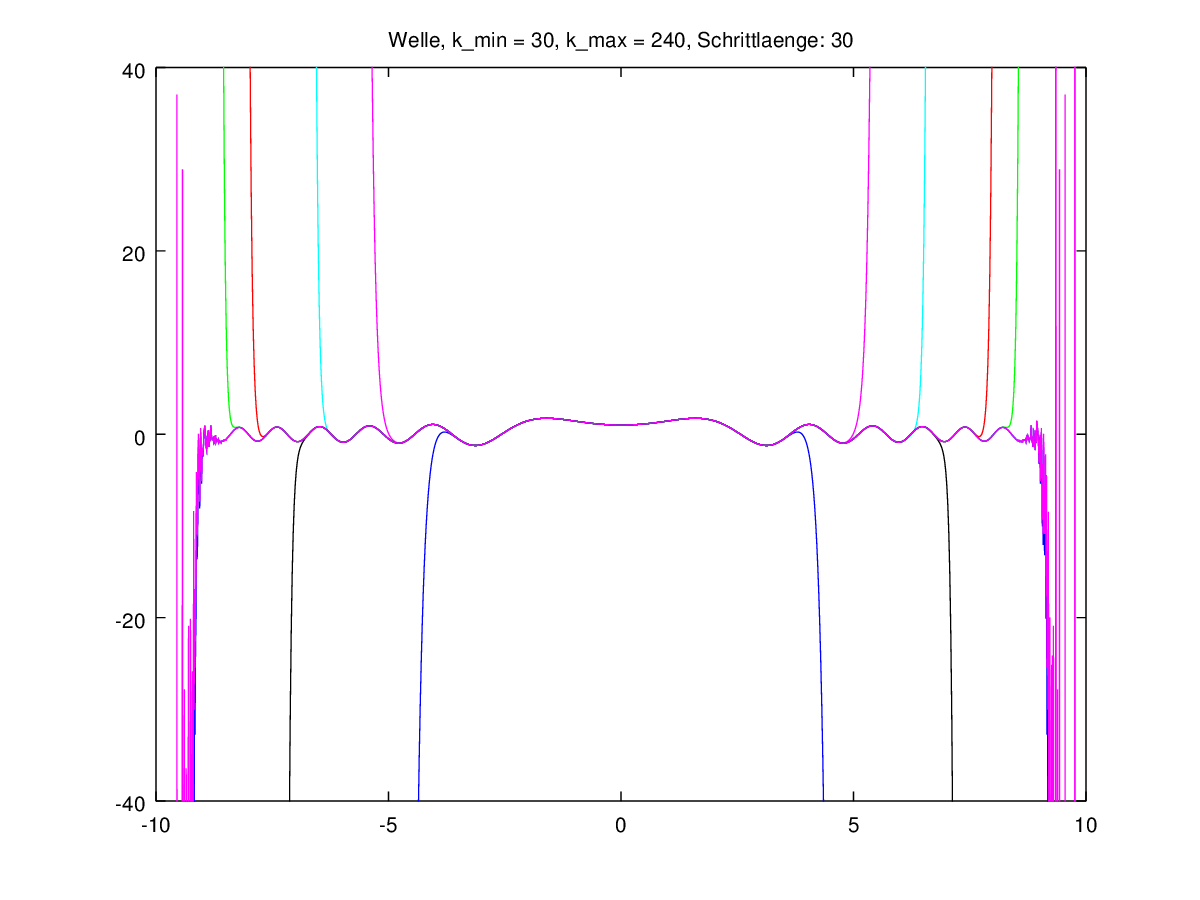
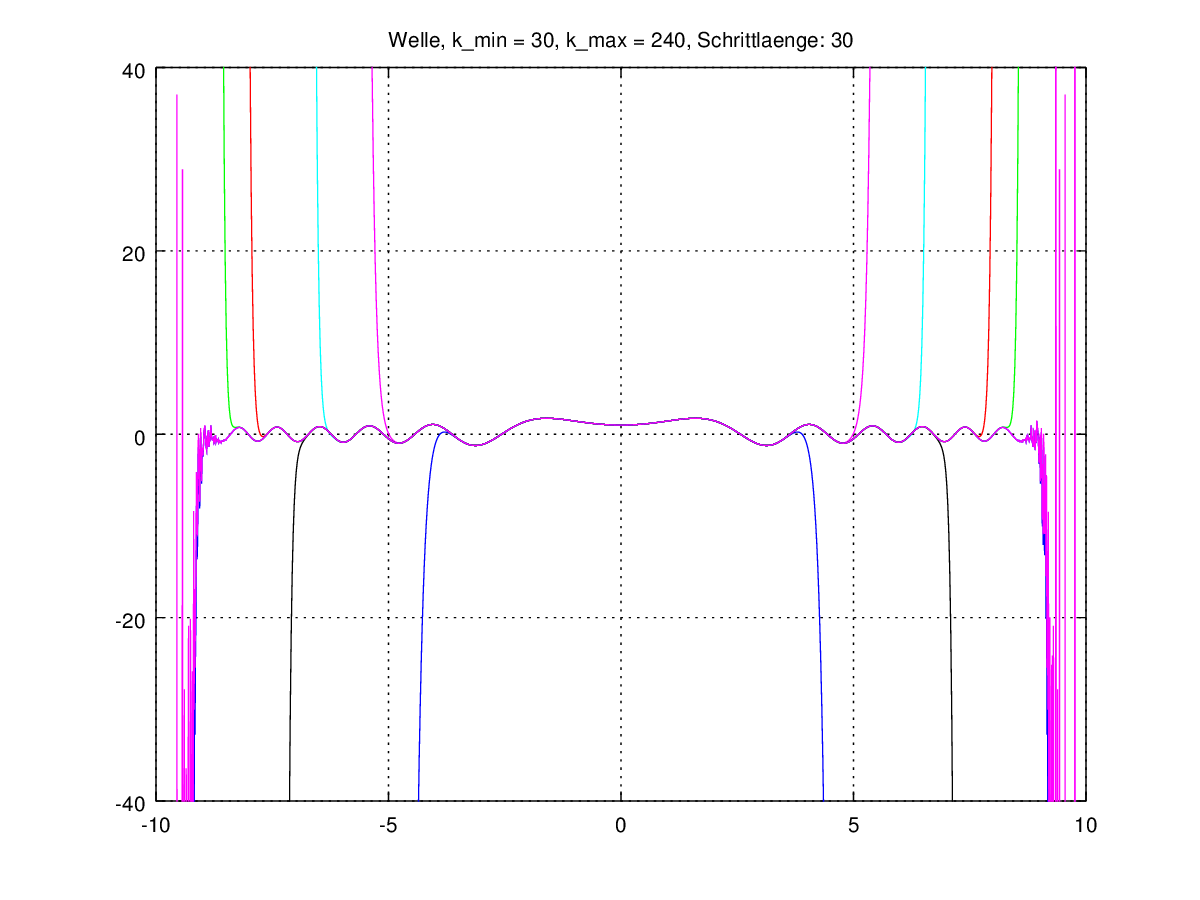
more plotting

diff --git a/skript/wellen/octave/krangeplot.m b/skript/wellen/octave/krangeplot.m
@@ -4,25 +4,53 @@ load("./a0a1.dat");
 set (0, "defaultaxesfontname", "Helvetica")
 figure("visible","off");
 
-hold("on");
-klinecolor = linecolor;
-for k = (krange(1):kstep:krange(2))
-    cfg = sprintf('%d;;', mod(klinecolor++, 6));
-    runcfg = sprintf('%s -kmax %d -xrange "[%d, %d]" -a0 %d -a1 %d -A %d -B %d -C %d', runcfg, k, xrange(1), xrange(2), a0, a1, A, B, C);
-    system(runcfg);
-    system(runak);
-    system(runa0a1);
-    system(runyx);
-    load("./yx.dat");
-    plot(xaxis, y, cfg);
-endfor
-axis(plotrange);
-if (autox)
-    axis("auto x");
+if (!krangeframes)
+    hold("on");
+    klinecolor = linecolor;
+    for k = (krange(1):kstep:krange(2))
+        cfg = sprintf('%d;;', mod(klinecolor++, 6));
+        runcfg = sprintf('%s -kmax %d -xrange "[%d, %d]" -a0 %d -a1 %d -A %d -B %d -C %d', runcfg, k, xrange(1), xrange(2), a0, a1, A, B, C);
+        system(runcfg);
+        system(runak);
+        system(runa0a1);
+        system(runyx);
+        load("./yx.dat");
+        plot(xaxis, y, cfg);
+    endfor
+    axis(plotrange);
+    if (autox)
+        axis("auto x");
+    endif
+    if (autoy)
+        axis("auto y");
+    endif
+    krangetitle = sprintf('Welle, k_max = [%d, %d], Schrittlaenge: %d', krange(1), krange(2), kstep);
+    title(krangetitle);
+    grid("on");
+    print("-dpng", "krangewave.png");
+else
+    hold("off");
+    i = 1;
+
+    for k = (krange(1):kstep:krange(2))
+        cfg = '3;;';
+        runcfg = sprintf('%s -kmax %d -xrange "[%d, %d]" -a0 %d -a1 %d -A %d -B %d -C %d', runcfg, k, xrange(1), xrange(2), a0, a1, A, B, C);
+        system(runcfg);
+        system(runak);
+        system(runa0a1);
+        system(runyx);
+        load("./yx.dat");
+        plot(xaxis, y, cfg);
+        axis(plotrange);
+        if (autox)
+            axis("auto x");
+        endif
+        if (autoy)
+            axis("auto y");
+        endif
+        krangetitle = sprintf('Welle, k_max = [%d, %d], k = %d', krange(1), krange(2), k);
+        title(krangetitle);
+        grid("on");
+        print("-dpng", sprintf('krangewave%d.png', i++));
+    endfor
 endif
-if (autoy)
-    axis("auto y");
-endif
-krangetitle = sprintf('Welle, k_min = %d, k_max = %d, Schrittlaenge: %d', krange(1), krange(2), kstep);
-title(krangetitle);
-print("-dpng", "krangewave.png");

diff --git a/skript/wellen/octave/config.m b/skript/wellen/octave/config.m
@@ -9,6 +9,7 @@ runyx = 'octave yx.m';
 runkrangeplot = 'octave krangeplot.m';
 runwaveplot = 'octave waveplot.m';
 runparabolaplot = 'octave parabolaplot.m';
+runbparabolaplot = 'octave bparabolaplot.m';
 
 ##
 # Plot settings
@@ -17,11 +18,14 @@ runparabolaplot = 'octave parabolaplot.m';
 plotwave = true;
 plotkrange = false;
 plotparabola = false;
+plotbparabola = false;
 
 waveplot = true;
 parabolazerosplot = true;
 parabolaplot = true;
 a0heightplot = false;
+
+krangeframes = false;
 
 filename = "wave";
 
@@ -124,6 +128,8 @@ for i = (1:nargin)
             plotwave = str2num(arglist(++i){1});
         case "-plotparabola"
             plotparabola = str2num(arglist(++i){1});
+        case "-plotbparabola"
+            plotbparabola = str2num(arglist(++i){1});
         case "-waveplot"
             waveplot = str2num(arglist(++i){1});
         case "-parabolazerosplot"
@@ -132,6 +138,8 @@ for i = (1:nargin)
             parabolaplot = str2num(arglist(++i){1});
         case "-filename"
            filename = arglist(++i){1};
+        case "-krangeframes"
+           krangeframes = str2num(arglist(++i){1});
     endswitch
 endfor
 
@@ -198,4 +206,5 @@ save("./config.dat", "kmax", "x0", "x1", "x2", "xrange", "datasize", "plotrange"
 "krange", "kstep", "plotkrange", "linecolor", "filename", "plotparabola",
 "plotwave", "parabolaplot", "waveplot", "parabolazerosplot", "a0heightplot", 
 "runcfg", "runak", "runa0a1", "runyx", "runkrangeplot", "runwaveplot", "runparabolaplot",
+"runbparabolaplot", "plotbparabola", "krangeframes",
 "parabolaformula", "yformula", "wavetitle", "parabolatitle", "wavewithparabolatitle");

diff --git a/skript/wellen/octave/parabolaplot.m b/skript/wellen/octave/parabolaplot.m
@@ -1,27 +1,18 @@
 load("./config.dat");
 load("./a0a1.dat");
 
-set (0, "defaultaxesfontname", "Helvetica")
-figure("visible","off");
-
 i = 1;
 
 for a = (arange(1):astep:arange(2))
-    cfg = '2;;';
-    runcfg = sprintf('%s -A %d -B %d -C %d -yautoplot false -yplot "[%d, %d]"', runcfg, a, B, C, plotrange(3), plotrange(4));
+    runcfg = sprintf('%s -A %d -B %d -C %d -xrange "[%d, %d]" -xplot "[%d, %d]" -xautoplot %d -yautoplot %d -yplot "[%d, %d]"', runcfg, a, B, C, xrange(1), xrange(2), plotrange(1), plotrange(2), autox, autoy, plotrange(3), plotrange(4));
     system(runcfg);
+    load("./config.dat");
     system(runak);
     system(runa0a1);
+    load("./a0a1.dat");
     system(runyx);
     load("./yx.dat");
-    plot(xaxis, p, cfg);
-    axis(plotrange);
-    if (autox)
-        axis("auto x");
-    endif
-    if (autoy)
-        axis("auto y");
-    endif
-    title(sprintf('Parabel, a = %d, b = %d, c = %d', a, B, C));
-    print("-dpng", sprintf('parabola%d.png', i++));
+    save("./loopdata.dat", "i", "a");
+    ++i;
+    system('octave awaveplot.m');
 endfor

diff --git a/skript/wellen/octave/bparabolaplot.m b/skript/wellen/octave/bparabolaplot.m
@@ -1,0 +1,28 @@
+load("./config.dat");
+load("./a0a1.dat");
+
+set (0, "defaultaxesfontname", "Helvetica")
+figure("visible","off");
+
+i = 1;
+
+for b = (brange(1):bstep:brange(2))
+    cfg = '2;;';
+    runcfg = sprintf('%s -A %d -B %d -C %d -xrange "[%d, %d]" -yautoplot false -yplot "[%d, %d]"', runcfg, A, b, C, xrange(1), xrange(2), plotrange(3), plotrange(4));
+    system(runcfg);
+    system(runak);
+    system(runa0a1);
+    system(runyx);
+    load("./yx.dat");
+    plot(xaxis, p, cfg);
+    axis(plotrange);
+    if (autox)
+        axis("auto x");
+    endif
+    if (autoy)
+        axis("auto y");
+    endif
+    title(sprintf('Parabel, a = %d, b = %d, c = %d', A, b, C));
+    grid("on");
+    print("-dpng", sprintf('bparabola%d.png', i++));
+endfor

diff --git a/skript/wellen/octave/awaveplot.m b/skript/wellen/octave/awaveplot.m
@@ -1,0 +1,21 @@
+load("./config.dat");
+load("./a0a1.dat");
+load("./yx.dat");
+load("./loopdata.dat");
+set (0, "defaultaxesfontname", "Helvetica")
+figure("visible","off");
+hold("on");
+plot(xaxis, p, '2;;');
+plot(xaxis, y, '3;;');
+plot([x1, x1], [0, x1val], '1;;');
+plot([x2, x2], [0, x2val], '1;;');
+axis(plotrange);
+if (autox)
+    axis("auto x");
+endif
+if (autoy)
+    axis("auto y");
+endif
+title(sprintf('Welle, a = %d, b = %d, c = %d', a, B, C));
+grid("on");
+print("-dpng", sprintf('awave%d.png', i));

diff --git a/skript/wellen/octave/plotter.m b/skript/wellen/octave/plotter.m
@@ -11,3 +11,7 @@ endif
 if (plotparabola)
    system(runparabolaplot);
 endif
+
+if (plotbparabola)
+   system(runbparabolaplot);
+endif
